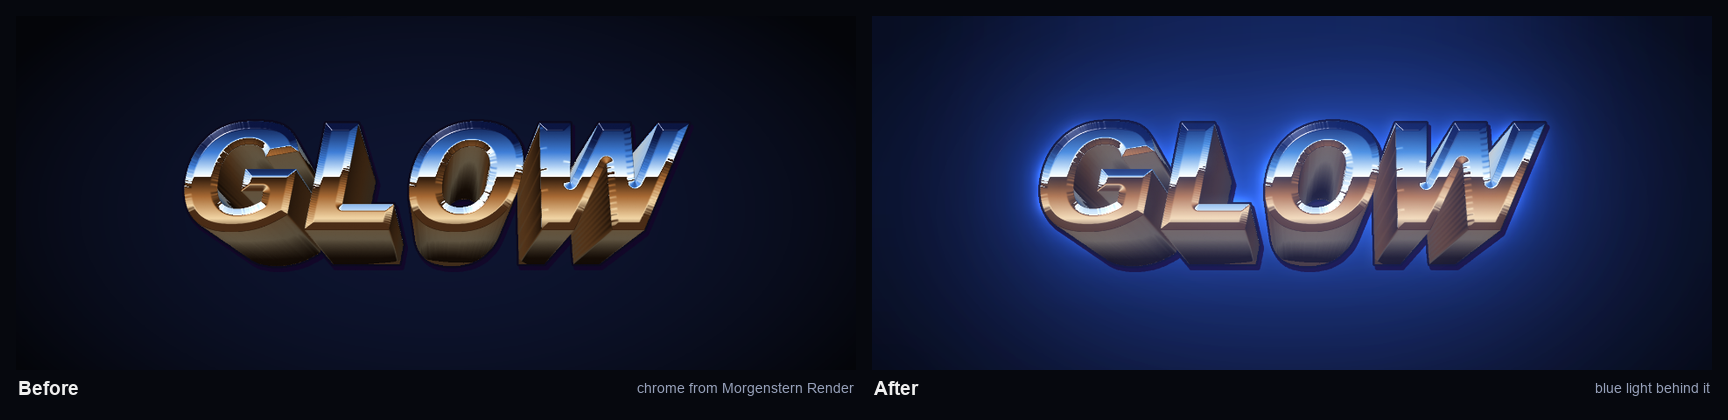
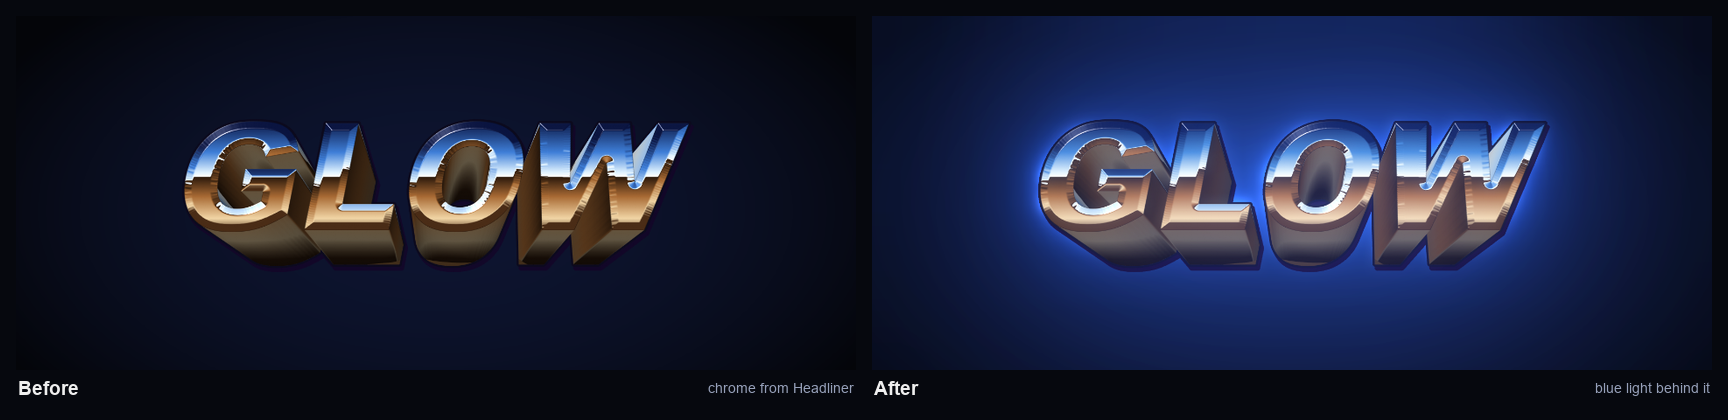
Rename to Afterglow: new name, no more Morgenstern branding
- new tool name in the panel, manifest id, code, README, license and installers
- panel header, icons and README images redrawn with the new name
- shared UI files renamed from ms-ui.* to ui.*
- footer with link to Instagram @linusleinberger

diff --git a/glow/main.js b/glow/main.js
@@ -1,9 +1,9 @@
 "use strict";
-// MS Glow – Photoshop-UXP-Panel.
+// Afterglow – Photoshop-UXP-Panel.
 // Light effects for the whole document or single layers, non-destructive:
-//  • Whole document: a group "MS Glow" on top with real layers (glow, halation, diffusion, streaks,
+//  • Whole document: a group "Afterglow" on top with real layers (glow, halation, diffusion, streaks,
 //    stars) that only brighten the artwork. The artwork below stays untouched.
-//  • Selected layers: each layer moves into a group "MS Glow · name"; the original stays visible inside,
+//  • Selected layers: each layer moves into a group "Afterglow · name"; the original stays visible inside,
 //    the effect layers above it (layer masks respected). Remove restores everything.
 // The settings live in the XMP of the effect layers – selecting the group loads them back into the panel.
 
@@ -14,13 +14,13 @@ const uxpStorage = require("uxp").storage;
 const lfs = uxpStorage.localFileSystem;
 
 const $ = (id) => document.getElementById(id);
-const STORE_KEY = "msglow.state.v1";
-const TARGET_KEY = "msglow.target.v1";
-const PRESET_KEY = "msglow.presets.v1";
-const GROUP_DOC = "MS Glow";
-const LAYER_PREFIX = "MS Glow · ";
-const HIST = "MS Glow";
-const XMP_NS = "http://ms-glow/1.0/";
+const STORE_KEY = "afterglow.state.v1";
+const TARGET_KEY = "afterglow.target.v1";
+const PRESET_KEY = "afterglow.presets.v1";
+const GROUP_DOC = "Afterglow";
+const LAYER_PREFIX = "Afterglow · ";
+const HIST = "Afterglow";
+const XMP_NS = "http://afterglow/1.0/";
 const MAX_PIXELS = 60e6;
 const TARGET = [{ _ref: "layer", _enum: "ordinal", _value: "targetEnum" }];
 // effect layer names, including the German names of earlier versions
@@ -136,7 +136,7 @@ function log(msg, data) {
 // ---------------------------------------------------------------- XMP (settings on the effect layers)
 function xmpFor(p, sourceId) {
   const json = JSON.stringify({ params: p, sourceId: sourceId || null }).replace(/&/g, "&amp;").replace(/</g, "&lt;");
-  return `<x:xmpmeta xmlns:x="adobe:ns:meta/"><rdf:RDF xmlns:rdf="http://www.w3.org/1999/02/22-rdf-syntax-ns#"><rdf:Description rdf:about="" xmlns:msglow="${XMP_NS}"><msglow:params>${json}</msglow:params></rdf:Description></rdf:RDF></x:xmpmeta>`;
+  return `<x:xmpmeta xmlns:x="adobe:ns:meta/"><rdf:RDF xmlns:rdf="http://www.w3.org/1999/02/22-rdf-syntax-ns#"><rdf:Description rdf:about="" xmlns:afterglow="${XMP_NS}"><afterglow:params>${json}</afterglow:params></rdf:Description></rdf:RDF></x:xmpmeta>`;
 }
 async function writeXmp(layerId, p, sourceId) {
   await batchPlay([{ _obj: "set", _target: [{ _ref: "property", _property: "XMPMetadataAsUTF8" }, { _ref: "layer", _id: layerId }], to: { _obj: "layer", XMPMetadataAsUTF8: xmpFor(p, sourceId) } }], {});
@@ -145,7 +145,7 @@ async function readXmp(layerId) {
   try {
     const r = await batchPlay([{ _obj: "get", _target: [{ _property: "XMPMetadataAsUTF8" }, { _ref: "layer", _id: layerId }] }], {});
     const x = r && r[0] && r[0].XMPMetadataAsUTF8;
-    const m = x && /<msglow:params>([\s\S]*?)<\/msglow:params>/.exec(x);
+    const m = x && /<afterglow:params>([\s\S]*?)<\/afterglow:params>/.exec(x);
     if (!m) return null;
     const o = JSON.parse(m[1].replace(/&lt;/g, "<").replace(/&amp;/g, "&"));
     return { params: Core.sanitize(o.params), sourceId: o.sourceId || null };
@@ -275,7 +275,7 @@ function downsample(src, sw, sh, ox, oy, w, h, ps) {
 
 // ---------------------------------------------------------------- Own controls
 // Deliberately no Photoshop widgets (sp-slider, native checkboxes/selects, Photoshop colour picker):
-// own sliders, switches, segments and a colour popover in the Morgenstern design.
+// own sliders, switches, segments and a colour popover in the shared design.
 
 // Slider: name and value on top, a thin track with a glowing fill below.
 // Drag, click the track, arrow keys (Shift = ×10), double-click = default, or type the value.
@@ -424,7 +424,7 @@ function syncUI() {
 }
 
 // Collapsible sections; the panel remembers what was open
-const SEC_KEY = "msglow.sections.v1";
+const SEC_KEY = "afterglow.sections.v1";
 const SEC_DEFAULT = { looks: true, glow: true, effects: true, fine: false, more: false };
 function buildSections() {
   let open = {};

diff --git a/tools/make-showcase.js b/tools/make-showcase.js
@@ -1,11 +1,11 @@
-// Builds the README images with the real engine: chrome lettering (Morgenstern Render, folder next to this one)
-// as its own layer, with Morgenstern Glow on top in layer mode – the way the tool is used in Photoshop.
+// Builds the README images with the real engine: chrome lettering (Headliner, folder next to this one)
+// as its own layer, with Afterglow on top in layer mode – the way the tool is used in Photoshop.
 // node tools/make-showcase.js   (needs Python with Pillow for the lettering and labels)
 const fs = require("fs"), path = require("path"), { execFileSync } = require("child_process");
 const Core = require(path.join(__dirname, "..", "glow", "core.js"));
 const { encodePNG } = require("./png.js");
 const { chromeScene } = require("./chrome-scene.js");
-const OUT = path.join(__dirname, "..", "docs", "images"), TMP = fs.mkdtempSync(path.join(require("os").tmpdir(), "msglow-"));
+const OUT = path.join(__dirname, "..", "docs", "images"), TMP = fs.mkdtempSync(path.join(require("os").tmpdir(), "afterglow-"));
 fs.mkdirSync(OUT, { recursive: true });
 
 function glow(sc, p) {
@@ -34,7 +34,7 @@ im.save(s["out"])
 `, js]);
 }
 
-// the Morgenstern look: deep blue light behind chrome
+// the signature look: deep blue light behind chrome
 const SIGNATURE = Object.assign(Core.presetParams("chromeaura"), {
   amount: 200, radius: 100, falloff: 0, gamma: 50, tint: "#3d6bff",
   haze: 50, hazeRadius: 100, hazeColor: "#2f5bff", hazeTint: 100, diffusion: 20,
@@ -49,7 +49,7 @@ const sc = chromeScene({ lines: ["GLOW"], W, H, px: 320, fill: 0.62 });
 }
 // 2) before / after
 sheet("before-after.png", "", [
-  { img: save("orig", sc.base, W, H), label: "Before", sub: "chrome from Morgenstern Render" },
+  { img: save("orig", sc.base, W, H), label: "Before", sub: "chrome from Headliner" },
   { img: save("after-sig", glow(sc, SIGNATURE), W, H), label: "After", sub: "blue light behind it" },
 ], 2, 840, 354);
 // 3) all looks

diff --git a/glow/index.html b/glow/index.html
@@ -2,14 +2,14 @@
 <html>
 <head>
   <meta charset="utf-8">
-  <link rel="stylesheet" href="ms-ui.css">
+  <link rel="stylesheet" href="ui.css">
   <link rel="stylesheet" href="styles.css">
 </head>
 <body>
   <div class="layout">
   <div class="top">
     <div class="header">
-      <span class="brand"><span class="dot"></span><span class="brand-ms">MS</span><span class="brand-name">Glow</span></span>
+      <span class="brand"><span class="dot"></span><span class="brand-name">Afterglow</span></span>
       <span id="targetName" class="target-name">–</span>
     </div>
 
@@ -101,7 +101,7 @@
           <div class="btn small ghost" id="selfTest" title="Creates a test document and checks every function">Self-test</div>
           <div class="btn small ghost" id="refreshPreview" title="Reload the preview">Refresh preview</div>
         </div>
-        <div class="hint">Morgenstern Glow creates a group with real layers. They only brighten, your original stays untouched. With "Layer only" the original sits inside the group; Remove restores it.</div>
+        <div class="hint">Afterglow creates a group with real layers. They only brighten, your original stays untouched. With "Layer only" the original sits inside the group; Remove restores it.</div>
       </div>
     </div>
 

diff --git a/glow/ui.css b/glow/ui.css
@@ -1,4 +1,4 @@
-/* Morgenstern design – shared by all Morgenstern tools (matches ms-ui.js)
+/* Shared design – used by all tools (matches ui.js)
    Calm, dark, precise – and exactly one colour that glows: a deep electric blue.
    Base       #070a12   Surface #0d1220   Line   #1e2740
    Text       #e6ebf7   Text 2  #a7b1ca   muted     #7e89a6
@@ -26,7 +26,6 @@ b, strong { font-weight: 600; color: #e6ebf7; }
 .header { display: flex; flex-direction: row; justify-content: space-between; align-items: center; margin-bottom: 10px; }
 .brand { display: flex; flex-direction: row; align-items: center; }
 .dot { width: 8px; height: 8px; border-radius: 4px; background-color: #2f5bff; border: 1px solid #7b9cff; margin-right: 8px; box-shadow: 0 0 10px rgba(47, 91, 255, 0.9); }
-.brand-ms { font-size: 12px; font-weight: bold; letter-spacing: 1px; color: #7b9cff; margin-right: 5px; }
 .brand-name { font-size: 12px; font-weight: 600; color: #e6ebf7; }
 .target-name { color: #7e89a6; max-width: 150px; overflow: hidden; text-overflow: ellipsis; white-space: nowrap; font-size: 10px; }
 

diff --git a/tools/chrome-scene.js b/tools/chrome-scene.js
@@ -1,10 +1,10 @@
 // Chrome lettering as the scene for the README images: text (Arial Black, italic) → chrome from the
-// Morgenstern Render engine (folder next to this one: ../../MS Render) → its own layer over a dark background.
+// Headliner engine (folder next to this one: ../../Headliner) → its own layer over a dark background.
 // Returns the layer (RGBA, transparent around it) and the finished image below it (RGB).
 const fs = require("fs"), path = require("path"), os = require("os"), { execFileSync } = require("child_process");
-const E = require(path.join(__dirname, "..", "..", "MS Render", "render", "engine.js"));
+const E = require(path.join(__dirname, "..", "..", "Headliner", "render", "engine.js"));
 
-const TMP = fs.mkdtempSync(path.join(os.tmpdir(), "msglow-chrome-"));
+const TMP = fs.mkdtempSync(path.join(os.tmpdir(), "afterglow-chrome-"));
 
 // text as an alpha mask (Python + Pillow)
 function textAlpha(lines, px) {

diff --git a/glow/ui.js b/glow/ui.js
@@ -1,7 +1,7 @@
-// Morgenstern controls – shared by all Morgenstern tools.
+// Shared controls – used by all tools.
 // Deliberately no Photoshop widgets (sp-slider, native checkboxes/selects, Photoshop colour picker by default):
 // own sliders, switches, segments, colour popover, collapsible sections and preset list.
-// The classes match ms-ui.css.
+// The classes match ui.css.
 
 const esc = (s) => String(s).replace(/&/g, "&amp;").replace(/</g, "&lt;").replace(/>/g, "&gt;").replace(/"/g, "&quot;");
 

diff --git a/glow/core.js b/glow/core.js
@@ -1,5 +1,5 @@
 "use strict";
-// MS Glow – core engine (plain JavaScript, runs in the panel and in Node).
+// Afterglow – core engine (plain JavaScript, runs in the panel and in Node).
 // Creates light effects from the bright parts of an image. Each effect becomes its own layer that lies above the
 // original and only brightens it (Screen / Linear Dodge) – the original stays untouched:
 //   glow       soft light with a physical falloff (many stacked blur levels)

diff --git a/tools/ui-preview.html b/tools/ui-preview.html
@@ -2,7 +2,7 @@
 <html>
 <head>
 <meta charset="utf-8">
-<title>Morgenstern Glow – panel preview</title>
+<title>Afterglow – panel preview</title>
 <!-- Shows the panel UI in a browser (without Photoshop): Photoshop/UXP are mocked. -->
 <style>body { margin: 0; background: #222; } #frame { width: 340px; height: 900px; margin: 10px; border: 1px solid #444; }</style>
 </head>

diff --git a/tools/render-test.js b/tools/render-test.js
@@ -1,4 +1,4 @@
-// Renders a raw RGBA file with MS Glow and writes the composited result as PNG.
+// Renders a raw RGBA file with Afterglow and writes the composited result as PNG.
 // node tools/render-test.js <in.raw> <w> <h> <out.png> [look-id | json]
 const fs = require("fs"), path = require("path");
 const Core = require(path.join(__dirname, "..", "glow", "core.js"));

diff --git a/glow/styles.css b/glow/styles.css
@@ -1,2 +1,2 @@
-/* Morgenstern Glow – additions to the shared Morgenstern design (ms-ui.css) */
+/* Afterglow – additions to the shared design (ui.css) */
 .field-label { width: 58px; }

diff --git a/README.md b/README.md
@@ -1,19 +1,19 @@
 <p align="center">
-  <img src="docs/images/hero.png" alt="Morgenstern Glow" width="100%">
+  <img src="docs/images/hero.png" alt="Afterglow" width="100%">
 </p>
 
 <p align="center">
   <b>Realistic glow for Photoshop: soft light with a physical falloff, halation, Pro-Mist, anamorphic
   streaks, star filter and haze – for the whole document or single layers, non-destructive.</b><br>
   <sub>Photoshop 2023 (24.2) or newer · UXP panel</sub><br>
-  <sub>Free tools by <b>Morgenstern</b> · <a href="https://github.com/M0rgenst3rn/ms-distress">Morgenstern Distress</a> · <a href="https://github.com/M0rgenst3rn/ms-printer">Morgenstern Printer</a> · <a href="https://github.com/M0rgenst3rn/ms-render">Morgenstern Render</a> · <a href="https://github.com/M0rgenst3rn/ms-phase">Morgenstern Phase</a> · <b>Morgenstern Glow</b> · <a href="https://github.com/M0rgenst3rn/ms-gradients">Morgenstern Gradients</a> · <a href="https://github.com/M0rgenst3rn/ms-grids">Morgenstern Grids</a></sub>
+  <sub>More tools by <b>Linus Leinberger</b> · <b>Afterglow</b> · <a href="https://github.com/M0rgenst3rn/asciiwave">Asciiwave</a> · <a href="https://github.com/M0rgenst3rn/gradient-library">Gradient Library</a> · <a href="https://github.com/M0rgenst3rn/gridwork">Gridwork</a> · <a href="https://github.com/M0rgenst3rn/grime">Grime</a> · <a href="https://github.com/M0rgenst3rn/headliner">Headliner</a> · <a href="https://github.com/M0rgenst3rn/misprint">Misprint</a> · <a href="https://github.com/M0rgenst3rn/seamline">Seamline</a> · <a href="https://github.com/M0rgenst3rn/vhold">Vhold</a></sub>
 </p>
 
 ---
 
-## What is Morgenstern Glow?
+## What is Afterglow?
 
-Morgenstern Glow makes the bright parts of your image glow, like light through a diffusion filter or on old
+Afterglow makes the bright parts of your image glow, like light through a diffusion filter or on old
 film stock. The glow falls off like real light: bright and dense at the source, with a long, soft tail. On top
 of that there are halation, Pro-Mist, haze, anamorphic streaks, a star filter and colour fringes.
 
@@ -23,7 +23,7 @@ brightens your artwork. The original stays untouched.
 <p align="center"><img src="docs/images/before-after.png" alt="Chrome lettering before and after"></p>
 
 Every image on this page shows the same workflow as in Photoshop: lettering turned into chrome with
-[Morgenstern Render](https://github.com/M0rgenst3rn/ms-render), and Morgenstern Glow on top with "Layer only".
+[Headliner](https://github.com/M0rgenst3rn/headliner), and Afterglow on top with "Layer only".
 
 ### Highlights
 
@@ -49,7 +49,7 @@ the panel show each look with your own document or layer.
 <p align="center"><img src="docs/images/aura.png" alt="Glow over everything and outside only compared"></p>
 
 On the left the lettering itself glows too, and the chrome turns bright and blue. On the right **Outside only**
-is on: the chrome stays chrome and the light sits only around it. With "Layer only" Morgenstern Glow takes
+is on: the chrome stays chrome and the light sits only around it. With "Layer only" Afterglow takes
 exactly the shape of the layer; in the whole document it takes everything that clearly stands out from the
 dark background.
 
@@ -98,9 +98,9 @@ shows the same as the result.
 
 ## Layers in the document
 
-**Whole document**: a group **"MS Glow"** is created at the top of the document:
+**Whole document**: a group **"Afterglow"** is created at the top of the document:
 ```
-MS Glow           (group, opacity)
+Afterglow           (group, opacity)
 ├─ Stars          Linear Dodge
 ├─ Streaks        Linear Dodge
 ├─ Halation       Screen
@@ -110,7 +110,7 @@ MS Glow           (group, opacity)
 ```
 Only the layers of the effects you turned on are created.
 
-**Layer only**: every layer gets its own group **"MS Glow · name"**. The original sits inside it unchanged,
+**Layer only**: every layer gets its own group **"Afterglow · name"**. The original sits inside it unchanged,
 the effect layers above it. The glow may reach beyond the object. Layer masks of cut-out objects are
 respected: whatever the mask hides doesn't glow. **Remove** puts the original back in the same place.
 
@@ -123,7 +123,7 @@ respected: whatever the mask hides doesn't glow. **Remove** puts the original ba
    ```bash
    bash install-mac.sh
    ```
-3. (Re)start Photoshop → **Plugins › MS Glow**
+3. (Re)start Photoshop → **Plugins › Afterglow**
 
 ### Alternative: UXP Developer Tool (macOS & Windows)
 
@@ -148,7 +148,7 @@ respected: whatever the mask hides doesn't glow. **Remove** puts the original ba
 glow/                The plugin (loaded into Photoshop as is)
   manifest.json      Plugin description
   index.html         Panel UI
-  ms-ui.js/.css      Shared Morgenstern controls and design
+  ui.js/.css      Shared controls and design
   main.js            Photoshop side (groups, layers, preview, Live, verify, self-test)
   core.js            Light engine, plain JavaScript
 install-mac.sh       Packs the plugin (.ccx) and installs it
@@ -158,12 +158,12 @@ docs/images/         Example images
 
 ```bash
 node tools/render-test.js in.raw 960 540 out.png dreamy   # render a look without Photoshop
-node tools/make-showcase.js                                # rebuild the images of this README (needs Python with Pillow and Morgenstern Render next to this folder)
+node tools/make-showcase.js                                # rebuild the images of this README (needs Python with Pillow and Headliner next to this folder)
 ```
 
 ## Found a bug? Got an idea?
 
-Get in touch! The easiest way is **[Issues](https://github.com/M0rgenst3rn/ms-glow/issues)** here on GitHub:
+Get in touch! The easiest way is **[Issues](https://github.com/M0rgenst3rn/afterglow/issues)** here on GitHub:
 click **New issue** and briefly describe what happened. Your Photoshop version, operating system and a
 screenshot help a lot. All you need is a free GitHub account. Suggestions and feature requests are just as
 welcome.
@@ -181,5 +181,5 @@ Adobe and Photoshop are trademarks of Adobe Inc. This project is independent and
 
 ---
 
-<p align="center"><sub>Morgenstern Glow<br>
-Made by Linus Leinberger</sub></p>
+<p align="center"><sub>Afterglow<br>
+Made by Linus Leinberger · <a href="https://www.instagram.com/linusleinberger">Instagram @linusleinberger</a></sub></p>
